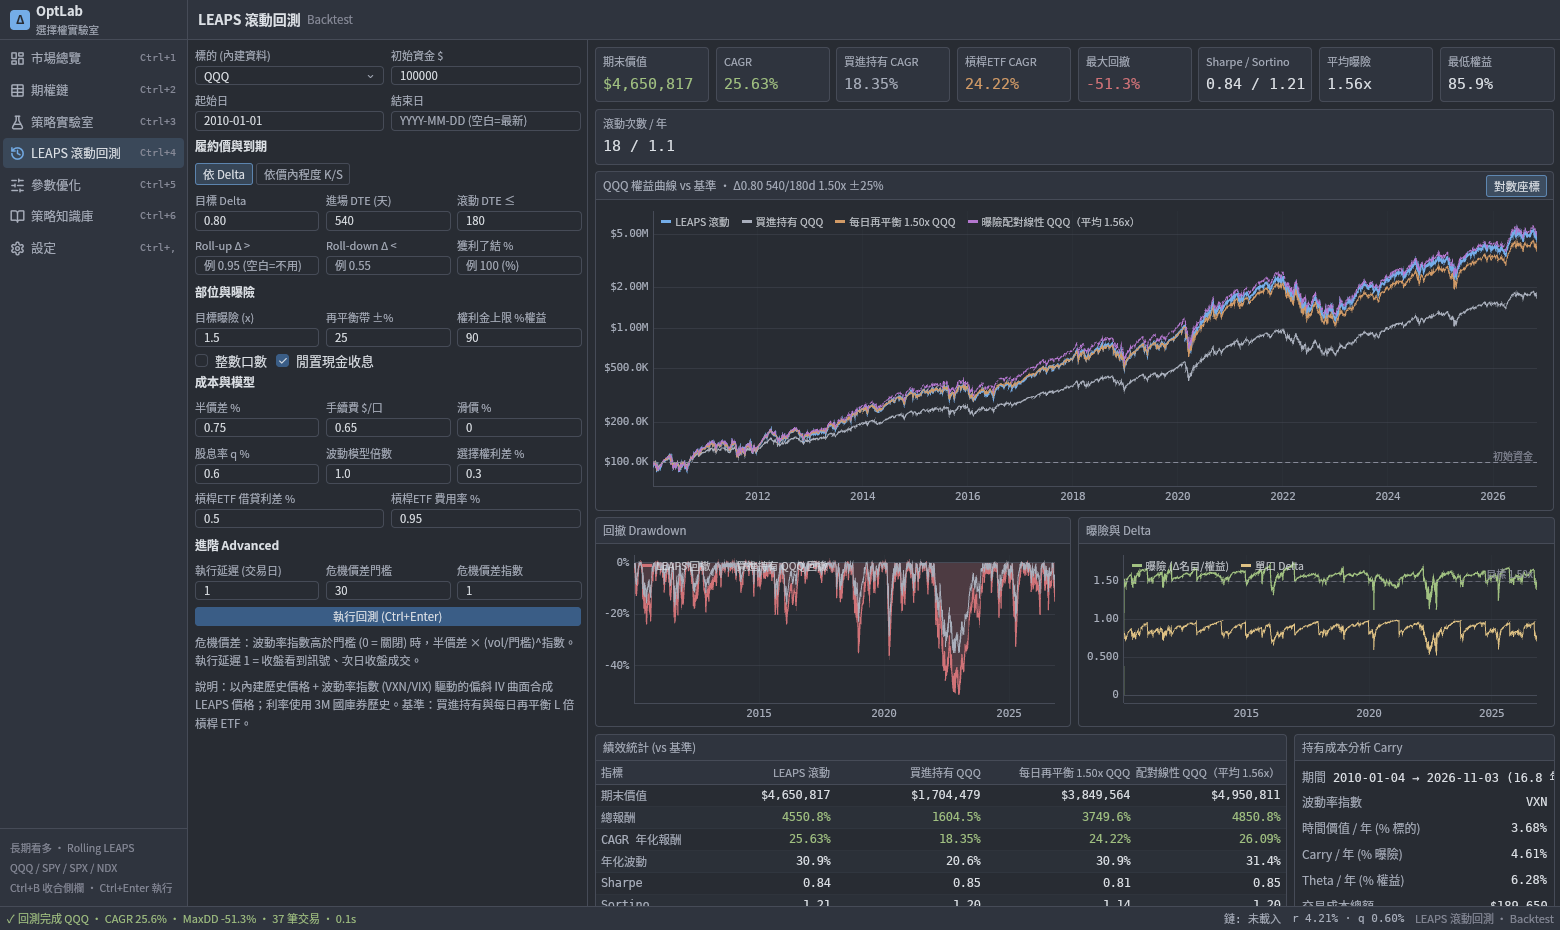
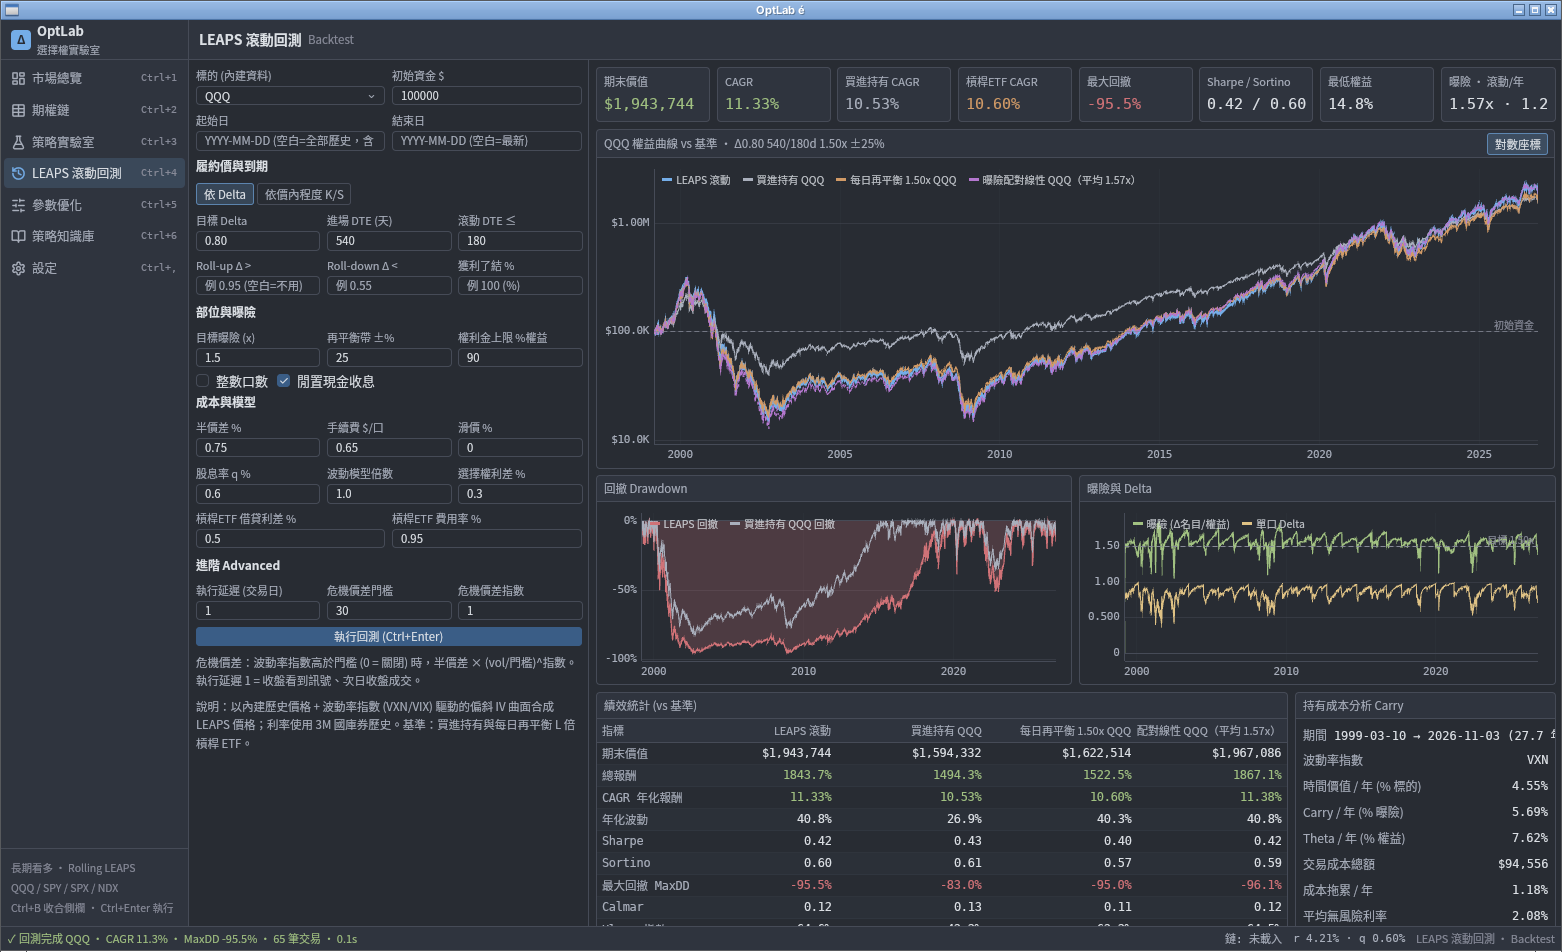
App: full-history defaults (include 2000/2008 crashes), λ=0.5; refreshed screenshots
Claude-Session: https://claude.ai/code/session_01Uhr3zESC44wNPchMd8zFYr

diff --git a/crates/app/src/pages/optimizer.rs b/crates/app/src/pages/optimizer.rs
@@ -120,7 +120,7 @@ impl OptimizerPage {
         let g = ParamGrid::default();
         let join = |v: Vec<String>| v.join(", ");
         let inp = Inputs {
-            start: new_input_ph("2010-01-01", "YYYY-MM-DD", window, cx),
+            start: new_input_ph("", "YYYY-MM-DD (空白=全部歷史，含 2000/2008 股災)", window, cx),
             end: new_input_ph("", "空白 = 最新", window, cx),
             deltas: new_input(join(g.deltas.iter().map(|d| format!("{d}")).collect()), window, cx),
             entry: new_input(join(g.entry_dtes.iter().map(|d| d.to_string()).collect()), window, cx),
@@ -128,7 +128,7 @@ impl OptimizerPage {
             exposure: new_input(join(g.exposures.iter().map(|d| format!("{d}")).collect()), window, cx),
             roll_up: new_input("無, 0.95", window, cx),
             min_hold: new_input(g.min_hold_days.to_string(), window, cx),
-            lambda: new_input("0.25", window, cx),
+            lambda: new_input("0.5", window, cx),
             dd_cap: new_input("50", window, cx),
             top_n: new_input("30", window, cx),
             boot_n: new_input("200", window, cx),

diff --git a/crates/app/src/pages/backtest.rs b/crates/app/src/pages/backtest.rs
@@ -97,7 +97,7 @@ impl BacktestPage {
         let q = data_bridge::default_dividend_yield(&sym);
         let i = |v: String, window: &mut Window, cx: &mut Context<Self>| new_input(v, window, cx);
         let inp = Inputs {
-            start: new_input_ph("2010-01-01", "YYYY-MM-DD (空白=全部)", window, cx),
+            start: new_input_ph("", "YYYY-MM-DD (空白=全部歷史，含 2000/2008 股災)", window, cx),
             end: new_input_ph("", "YYYY-MM-DD (空白=最新)", window, cx),
             capital: i(format!("{}", cfg.initial_capital), window, cx),
             strike_val: i("0.80".into(), window, cx),
